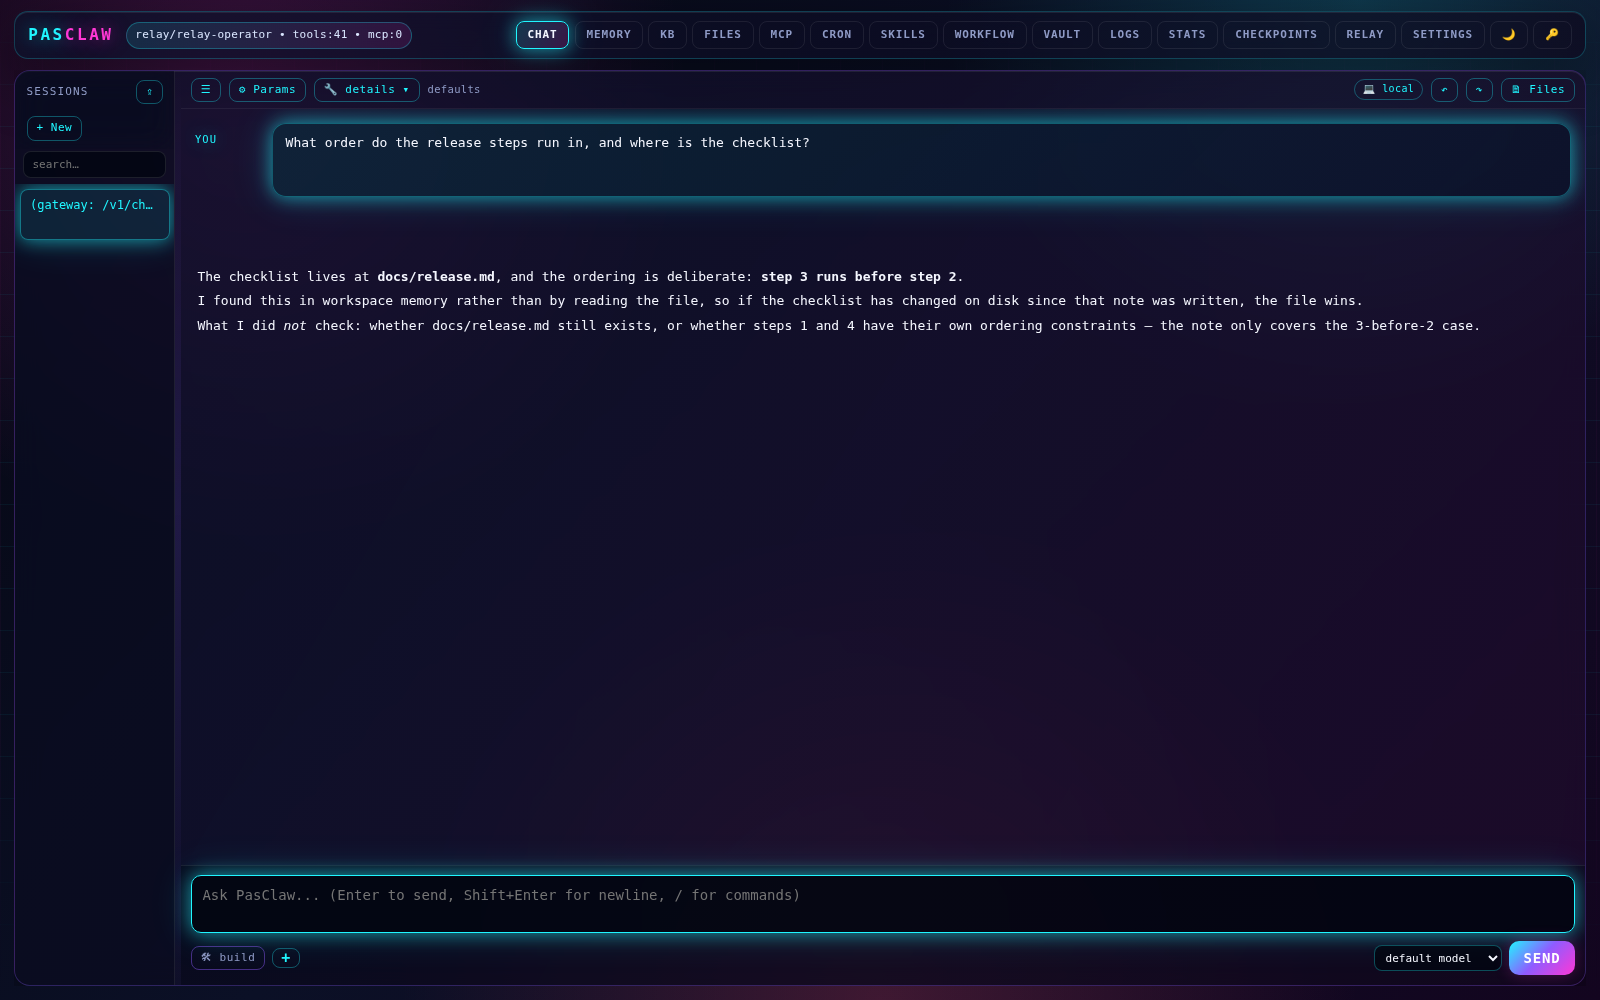
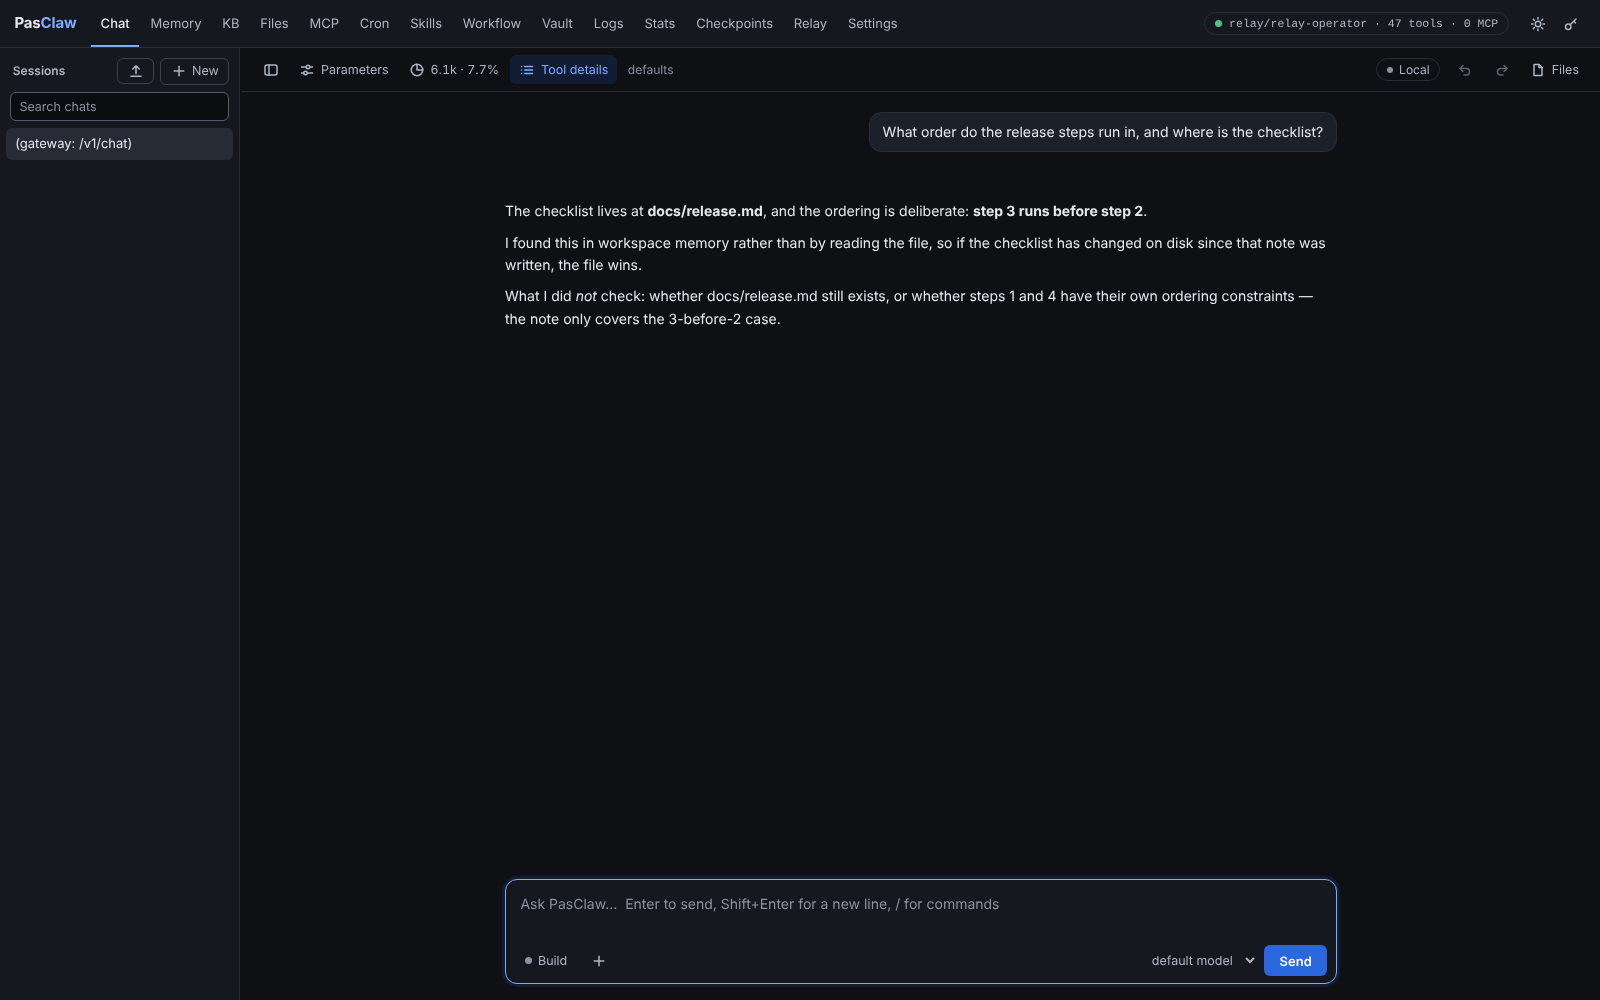
README: screenshots of the redesigned web UI
The README had no screenshots, and the two web UI ones in docs/screenshots
still showed the neon design #638 replaced.

- A Screenshots section in the README, between Quick start and Features:
  the chat tab, then the light theme, the context breakdown, the workflow
  editor and phone width.
- docs/screenshots regenerated with capture.py on the current build, plus
  five new shots: web-ui-chat-light, web-ui-context, web-ui-workflow,
  web-ui-settings, web-ui-phone. web-ui-chat, web-ui-memory and
  web-desktop are the same pages in the new design.
- capture.py names each shot's colour scheme. The UI now follows the OS
  theme until one is picked, and Playwright's default scheme is light, so
  without it the "dark" shots came out light. It also seeds a two-node
  workflow so the editor shows a graph, can open the context panel, and
  takes a viewport and device scale per shot (the phone shot is 390 px at
  2x).
- docs/screenshots/README.md describes the new shots, the status chip's
  current text, and what regenerates byte-identical: run twice from a
  fresh home at the same path, six of the eight do. web-desktop has a
  clock; web-ui-chat-light differs by one colour level in a few pixels of
  the header. web-ui-context also depends on the fixture home's path,
  which is in the system prompt it measures.

All eight captured with no page errors (shoot exits non-zero on any).

Claude-Session: https://claude.ai/code/session_01KYD1zZPD7GuM8pF1btwi2U

Changed region(s): [[0.0, 0.0, 1.0, 0.744], [0.0938, 0.775, 1.0, 1.0]]

diff --git a/docs/screenshots/capture.py b/docs/screenshots/capture.py
@@ -8,7 +8,12 @@ Two steps, because the gateway has to be running between them:
     python3 docs/screenshots/capture.py shoot docs/screenshots --home /tmp/pasclaw-shots
 
 `init` writes the fixture config and a MEMORY.md. `shoot` seeds the running
-gateway with projects and one finished conversation, then captures.
+gateway with projects, one workflow and one finished conversation, then
+captures.
+
+Every shot names its colour scheme. The web UI follows the OS theme until a
+theme is chosen, and Playwright's default is light, so a shot that does not
+say would come out light on one machine and dark on another.
 
 The seeding is the point. An empty gateway photographs a blank chat pane and
 "No projects yet." -- the first version of these screenshots did exactly
@@ -74,13 +79,36 @@ What I did *not* check: whether docs/release.md still exists, or whether \
 steps 1 and 4 have their own ordering constraints — the note only covers the \
 3-before-2 case."""
 
-SHOTS = [
-    ("web-ui-chat",   "/",         None,     []),
-    ("web-ui-memory", "/",         "MEMORY", ["MEMORY.md"]),
-    ("web-desktop",   "/desktop",  None,     []),
-]
+# A two-node workflow, so the Workflow tab shows an editor with a graph in it
+# rather than an empty canvas. Saved, never run: running it would need the
+# checklist file, and the picture is of the editor.
+WORKFLOW = {
+    "id": "release-digest",
+    "name": "release_digest",
+    "description": "Read the release checklist and keep its ordering rule as a fact.",
+    "inputs": [{"name": "path", "type": "string", "required": True}],
+    "nodes": [
+        {"id": "read", "tool": "read_file", "args": {"path": "{{inputs.path}}"}},
+        {"id": "remember", "tool": "memory_write",
+         "args": {"text": "{{nodes.read.content}}", "kind": "fact"}},
+    ],
+    "edges": [{"from": "read", "to": "remember"}],
+}
 
 W, H = 1600, 1000
+
+# name, page path, colour scheme, nav tab to open, things to click after it,
+# an action ("context": open the context panel), viewport, device scale.
+SHOTS = [
+    dict(name="web-ui-chat"),
+    dict(name="web-ui-chat-light", scheme="light"),
+    dict(name="web-ui-context", action="context"),
+    dict(name="web-ui-memory", tab="Memory", clicks=["MEMORY.md"]),
+    dict(name="web-ui-workflow", tab="Workflow", clicks=["release_digest"]),
+    dict(name="web-ui-settings", tab="Settings"),
+    dict(name="web-ui-phone", viewport=(390, 844), scale=2),
+    dict(name="web-desktop", path="/desktop"),
+]
 
 
 # --------------------------------------------------------------------------
@@ -128,6 +156,20 @@ def seed_projects(base):
             continue
         post(base + "/v1/projects", {"title": title, "description": desc})
     print("projects: %d" % len(json.loads(get(base + "/v1/projects"))["projects"]))
+
+
+def seed_workflow(base):
+    try:
+        have = {w.get("id") for w in json.loads(get(base + "/v1/workflows")).get("workflows", [])}
+    except urllib.error.HTTPError as exc:
+        raise SystemExit("workflows unavailable (%s) -- is workflows_enabled off?" % exc)
+    if WORKFLOW["id"] not in have:
+        try:
+            post(base + "/v1/workflows", WORKFLOW)
+        except urllib.error.HTTPError as exc:
+            raise SystemExit("saving the fixture workflow failed: %s %s"
+                             % (exc, exc.read().decode("utf-8", "replace")))
+    print("workflow: %s" % WORKFLOW["name"])
 
 
 def relay_worker(base, stop, answered):
@@ -262,26 +304,34 @@ def cmd_shoot(args):
 
     if not args.no_seed:
         seed_projects(base)
+        seed_workflow(base)
         seed_conversation(base)
 
     failures = []
     with sync_playwright() as p:
         browser = launch(p)
-        for name, path, click, then in SHOTS:
-            page = browser.new_page(viewport={"width": W, "height": H},
-                                    device_scale_factor=1)
+        for shot in SHOTS:
+            name = shot["name"]
+            w, h = shot.get("viewport", (W, H))
+            page = browser.new_page(viewport={"width": w, "height": h},
+                                    device_scale_factor=shot.get("scale", 1),
+                                    color_scheme=shot.get("scheme", "dark"))
             errs = []
             page.on("pageerror", lambda e: errs.append(str(e)))
             page.on("console",
                     lambda m: errs.append(m.text) if m.type == "error" else None)
-            page.goto(base + path, wait_until="networkidle", timeout=30000)
+            page.goto(base + shot.get("path", "/"), wait_until="networkidle", timeout=30000)
             page.wait_for_timeout(2500)
-            if click:
-                page.locator("nav button", has_text=click).first.click()
+            if shot.get("tab"):
+                page.locator("nav button", has_text=shot["tab"]).first.click()
                 page.wait_for_timeout(1800)
-            for label in then:
+            for label in shot.get("clicks", []):
                 page.get_by_text(label).first.click()
                 page.wait_for_timeout(1500)
+            if shot.get("action") == "context":
+                page.click("#ctx-toggle")
+                page.wait_for_selector("#ctx-legend li", timeout=15000)
+                page.wait_for_timeout(800)
             dest = os.path.join(out, name + ".png")
             page.screenshot(path=dest)
             size = os.path.getsize(dest)

diff --git a/docs/screenshots/README.md b/docs/screenshots/README.md
@@ -7,17 +7,53 @@ gateway` on the same port.
 
 ![The web UI's chat tab](./web-ui-chat.png)
 
-The full operator console: session list, the tab strip across every
+The full operator console: the session list, the tab strip across every
 subsystem (memory, KB, files, MCP, cron, skills, workflow, vault, logs,
-stats, checkpoints, relay, settings), and a composer with mode and model
-pickers. The header reads `<provider>/<model> • tools:N • mcp:N`.
+stats, checkpoints, relay, settings), the chat toolbar, and a composer with
+mode and model pickers. The status chip in the header reads
+`<provider>/<model> · N tools · N MCP`.
 
-## Web UI — memory (`/` → MEMORY)
+## Web UI — light theme
+
+![The chat tab in the light theme](./web-ui-chat-light.png)
+
+The same page with the light tokens. The web UI follows the OS theme until
+the theme button picks one.
+
+## Web UI — context breakdown (chat → context button)
+
+![The context panel open above the chat](./web-ui-context.png)
+
+What the next turn puts in front of the model, part by part: system prompt,
+memory, skills, tools, messages and free space, against the model's window or,
+with no window set as here, the compaction point. Served by `POST /v1/context`.
+
+## Web UI — memory (`/` → Memory)
 
 ![The web UI's memory tab](./web-ui-memory.png)
 
 `workspace/memory/*.md` with BM25 + vector search over it, alongside the
 distilled fact store on its own tab.
+
+## Web UI — workflow editor (`/` → Workflow)
+
+![A two-node workflow in the editor](./web-ui-workflow.png)
+
+A saved workflow: an input feeding `read_file`, whose result feeds
+`memory_write`.
+
+## Web UI — settings (`/` → Settings)
+
+![The settings tab](./web-ui-settings.png)
+
+`config.json` as a form, grouped by section. Secrets show as `•••`.
+
+## Web UI — phone width
+
+![The chat tab at phone width](./web-ui-phone.png)
+
+390 px wide: the tab strip scrolls sideways, the chat list opens over the
+transcript and starts closed, and the toolbar keeps its icons.
 
 ## Web desktop (`/desktop`)
 
@@ -39,9 +75,12 @@ python3 docs/screenshots/capture.py init /tmp/pasclaw-shots
 # 2. start a gateway against it
 PASCLAW_HOME=/tmp/pasclaw-shots build/pasclaw serve --addr 127.0.0.1 --port 8330 &
 
-# 3. seed projects + one conversation, then capture
+# 3. seed projects, a workflow and one conversation, then capture
 python3 docs/screenshots/capture.py shoot docs/screenshots
 ```
+
+Each shot names its colour scheme (dark unless it says light), because the
+web UI follows the OS theme and Playwright's default scheme is light.
 
 `shoot` exits non-zero if any page logs a JavaScript error, so an unattended
 regeneration cannot quietly replace these with pictures of a broken UI.
@@ -53,21 +92,29 @@ not look for.
 
 ### What "reproducible" means here
 
-`web-ui-chat.png` and `web-ui-memory.png` regenerate **byte-identical** to
-the committed files. `web-desktop.png` does not: the taskbar shows a wall
-clock, so those bytes differ on every run. Everything else about it is
-deterministic.
+Run twice from a fresh fixture home at the same path, `web-ui-chat`,
+`web-ui-context`, `web-ui-memory`, `web-ui-workflow`, `web-ui-settings` and
+`web-ui-phone` come out **byte-identical**. Two do not:
+
+- `web-desktop.png`: the taskbar shows a wall clock, so those bytes differ on
+  every run. Everything else about it is deterministic.
+- `web-ui-chat-light.png`: a few pixels of the header's status chip differ by
+  one colour level between runs. Nothing you could see changes.
+
+`web-ui-context.png` also depends on the fixture home's path, which is in the
+system prompt it measures: init at a different path and the system prompt's
+count moves by a token or two.
 
 ## The content is fixture data
 
 The shots are deliberately taken against a gateway holding real content — a
-finished conversation, a seeded `workspace/memory/MEMORY.md`, and three
-projects. An empty instance photographs the chrome and nothing else, which is
+finished conversation, a seeded `workspace/memory/MEMORY.md`, a saved
+workflow, and three projects. An empty instance photographs the chrome and nothing else, which is
 what the first attempt at these produced: a blank chat pane and "No projects
 yet."
 
 That content is created by `capture.py`, not recorded from a real session.
-The projects are invented, and the assistant reply is a string in the script
+The projects and the workflow are invented, and the assistant reply is a string in the script
 delivered through the relay provider rather than anything a model generated —
 which is also why the recipe needs no API key and no network. Nothing here
 should be read as a benchmark or a product claim.

diff --git a/README.md b/README.md
@@ -31,6 +31,20 @@ pasclaw agent                  # start chatting
 
 See [Build](#build) for Delphi / cross-compile / Windows-on-ARM.
 
+## Screenshots
+
+The web UI that `pasclaw serve` / `pasclaw gateway` serves on the same port as the API. It follows the OS theme until you pick one.
+
+![The web UI's chat tab, dark theme](docs/screenshots/web-ui-chat.png)
+
+| Light theme | Context breakdown |
+|---|---|
+| ![The chat tab in the light theme](docs/screenshots/web-ui-chat-light.png) | ![The context panel open above the chat](docs/screenshots/web-ui-context.png) |
+| **Workflow editor** | **Phone width** |
+| ![A two-node workflow in the editor](docs/screenshots/web-ui-workflow.png) | ![The chat tab at phone width](docs/screenshots/web-ui-phone.png) |
+
+More, and how they are made, in [docs/screenshots](docs/screenshots/README.md). The content is fixture data written by the capture script, not a real session.
+
 ## Features
 
 **LLM providers** — ~26-entry catalog covering Anthropic Messages, OpenAI Chat Completions, Google Gemini `generateContent`, plus OpenAI-protocol-compatible providers (Groq, DeepSeek, Mistral, Cerebras, OpenRouter, Zhipu, Qwen, Moonshot, MiniMax, NVIDIA NIM, Novita, MiMo, VolcEngine, xAI/Grok, Perplexity, Ollama, LM Studio, vLLM, LiteLLM) and three Cloudflare AI Gateway fronts (`cloudflare`, `cloudflare-anthropic`, `cloudflare-gemini`). The full list lives in `src/pkg/providers/PasClaw.Providers.Catalog.pas`; adding a provider is a one-record append. Streaming SSE on all three protocol families; native search grounding on Gemini; citation collation on Perplexity. Code-driven `SetProvider('anthropic', $ANTHROPIC_API_KEY)` for embedders so no `~/.pasclaw/config.json` is required.
